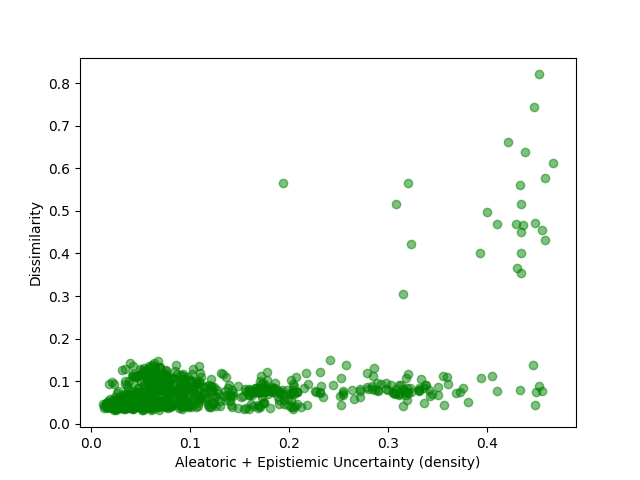
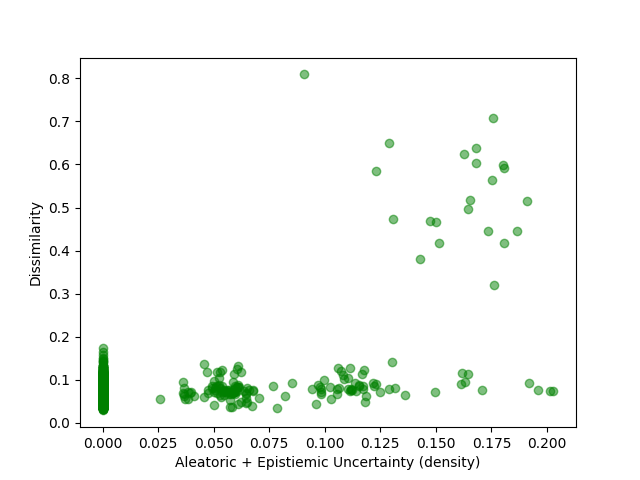
ok

diff --git a/main.py b/main.py
@@ -9,12 +9,12 @@ if __name__ == "__main__":
     dateset_names = [
         # "ECOLI",
         # "GLASS",
-        # "IONOSPHERE",
-        # "BREAST_CANCER",
-        "HEART",
+        "IONOSPHERE",
+        "BREAST_CANCER",
+        # "HEART",
         # "IRIS",
-        "SONAR",
-        "LIVER",
+        # "SONAR",
+        # "LIVER",
         # "WINE",
         ]
     uncertainties = [
